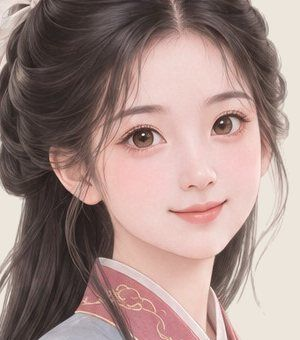
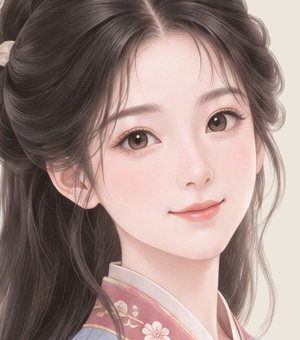
F4: c09 owner Duyệt (Lượt 1044) → FACE_CUTS/FACE_MAP/face crop switched to UPvIb4owny; ledger OWNER-OK
Claude-Session: https://claude.ai/code/session_01PEhRbwktquzk8uybdtpwYS

diff --git a/dev/handover/reports/F4-new-faces-s62-65.md b/dev/handover/reports/F4-new-faces-s62-65.md
@@ -93,3 +93,9 @@ Credits used: 0.
   Mains ≥ 26 ΔE2000 apart. Nearest of P6's mains: s62 5.7 (s48) · s63 3.3 (m19) · s64 4.7 (m02 xuân) · s65 5.8 (s36). The Dịu dàng band is nearly full:
   only 2 clean candidates were left for s63, both at the band's darker edge (OKLCH L .72, L* 66).
   Item colours re-checked: brass + red cord (ice blue/mint) · brown rabbit (amber/ivory — brown is close-ish to amber, flag) · golden-orange loquats (pink/lilac) · brown sandalwood (jade/peach).
+
+## c09 APPROVED (owner "Duyệt", Lượt 1044) → switched ~07:05Z
+- FACE_CUTS_L703.json c09.cut xSBWFuTjfW → UPvIb4owny (src c09.v3h.FULL.txt) · FACE_MAP_L703.json c09 (gen w4atqqr7EI, ver v3h, kind HANDFIX-F4, group unchanged
+  "Công chúa (Tinh nghịch)") · face crop face_page/faces/c09.jpg (crop.py on the new cut, looked) · ledger OWNER-OK line · LOOK_GROUPS.md line. No CDN step (F3's s44 had none).
+- NOT touched: dev/art/earring-test/anchors.json + EAR1.md still use the old cut xSBWFuTjfW (c09, one ear picture-left) → EAR1 refits. The new picture
+  also shows one ear on the picture's left, bare. face_page/ASSETS_L703.json + face_tick.html (old L703 page) also still list the old cut, same as s44 (F3 didn't update them).

diff --git a/dev/art/face-common/LOOK_GROUPS.md b/dev/art/face-common/LOOK_GROUPS.md
@@ -90,3 +90,4 @@ File máy đọc: dev/art/face-common/OWNER_GROUPS_L686.json
 - Sau: Sắc sảo 15 · Quyến rũ 18 · Lạnh lùng 15 · Kiêu kỳ 15 · Đoan trang 12 · Dịu dàng 11 = 86.
 - Lượt 949/950 (F3): owner "Quyến rũ ok" → s43 + s45 NEW Quyến rũ faces (make_quyenru_s43_45.py → sNN.qr.FULL.txt, root_drawn colours L27): s43 cut lJtdYwigv9 (was Sắc sảo 79foGqDJAL), s45 cut cpSxQta0eP (was kseWyhP16B). s44 waits for a non-grey sec colour (owner "Xám là bỏ hết"). Sheet: dev/handover/review-sheets/new-faces-v4/quyenru_s43_45_F3.jpg.
 - Lượt 961 (F3): owner "Ok, quyến rũ mới ok." → s44 NEW Quyến rũ face (s44.qr.FULL.txt, soft burnt sienna #A6593F + sage green #94B594, P3 deep file): cut DoOgxICpcl (was Sắc sảo 79foGbpJAL). s43 s44 s45 now all Quyến rũ.
+- Lượt 1044 (F4): owner "Duyệt" → c09 hand redraw (lantern now in a correct LEFT hand; c09.v3h.FULL.txt = approved c09.v3 + one HANDS sentence): cut UPvIb4owny (gen w4atqqr7EI), was xSBWFuTjfW. Group unchanged (Công chúa (Tinh nghịch)). Sheet: dev/handover/review-sheets/new-faces-v4/c09_hand_F4.jpg.
